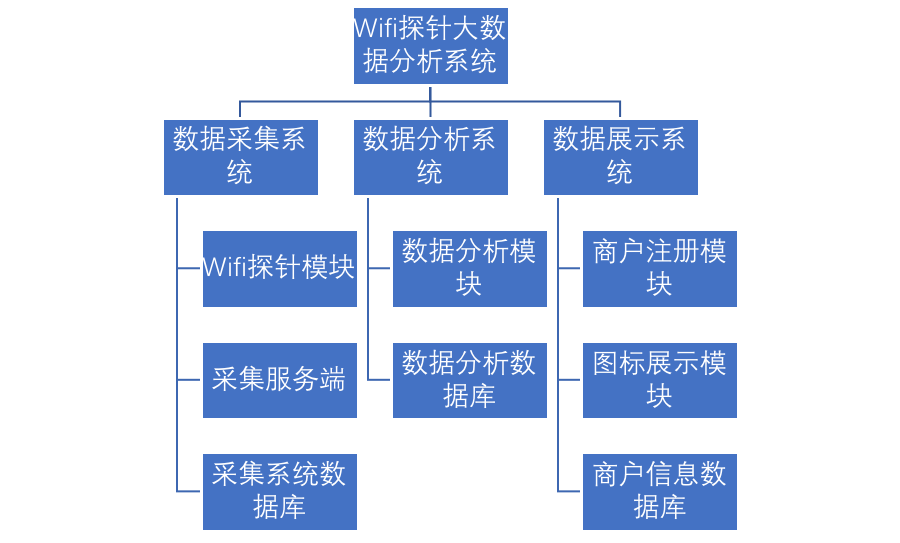
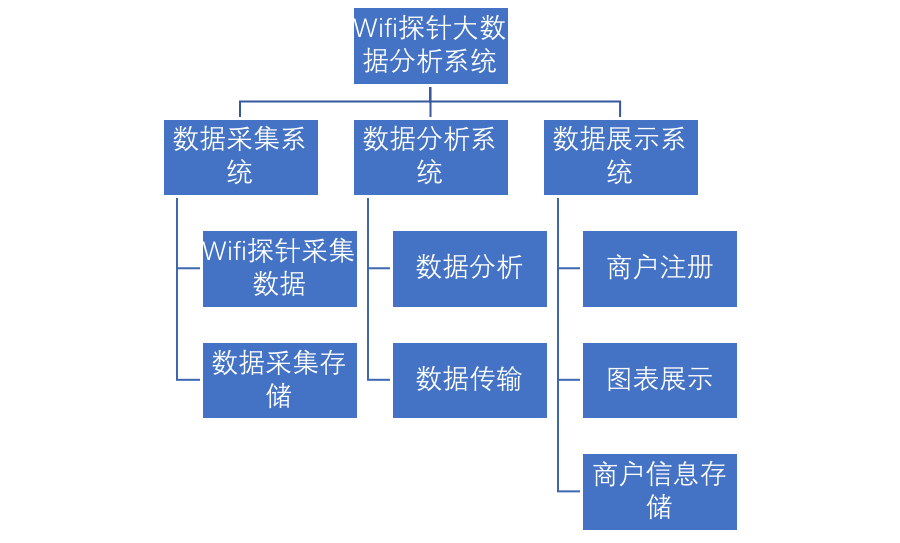
补上一张图

diff --git a/软件需求书-文档.md b/软件需求书-文档.md
@@ -26,7 +26,7 @@ WIfi探针能利用智能设备商WIFI模块所发出的无线广播信号进行
 
 本系统可细化为三个子系统：数据采集系统、数据分析系统和数据展示系统
 
-数据采集系统的工作过程为：Wifi探针将采集到的数据发送到后端服务器中，由服务器进行简单的数据清洗后存储到数据库中
+数据采集系统的工作过程为：Wifi探针将采集到的数据发送到后端服务器中，进行简单的数据清洗后存储到数据库中
 
 数据分析系统将实时地从数据采集系统的数据库中读取数据并存入其分析数据库中，进行实时数据分析，并将结果存入商户信息数据库
 
@@ -34,7 +34,15 @@ WIfi探针能利用智能设备商WIFI模块所发出的无线广播信号进行
 
 #### 系统结构图
 
-![](https://github.com/hhhizzz/WifiPin_Doc/raw/master/系统结构图.png)
+![](系统结构图.png)
+
+### 参考文献
+
+## 功能性需求
+
+### 系统数据流图
+
+![](数据流图.png)
 
 
 
